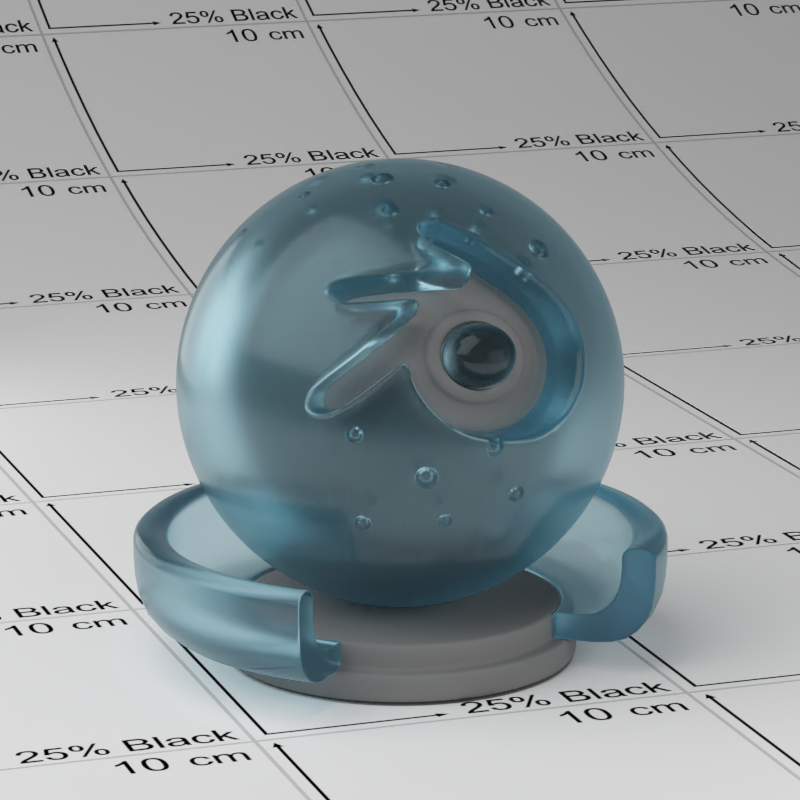
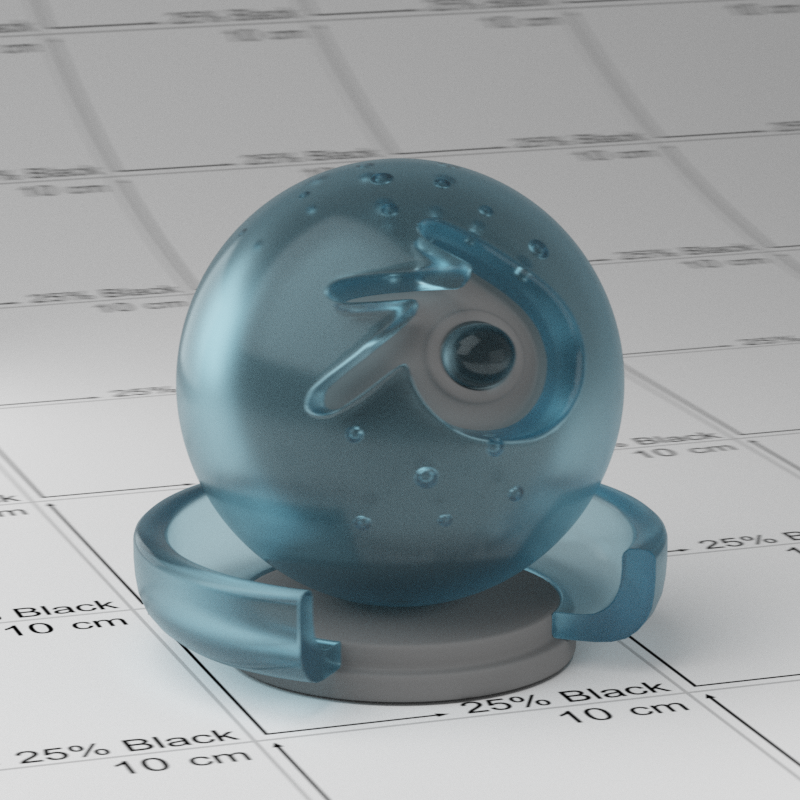
readme

diff --git a/README.md b/README.md
@@ -15,6 +15,12 @@
 * 迪士尼原型材质 disney principled material
 ![](./screenshot/disney_hyperion.png)
 
+* 薄镜模型景深 depth of field
+
+* 【材质】金属、玻璃、塑料、迪士尼 [material] metal glass plastic disney
+
+* 【灯光】定向光、环境、矩形、球、圆盘、聚光灯 [light] directional dome rect point disk spot
+
 ## 截图 screenshot
 
 ![](./screenshot/dining_room.png)
